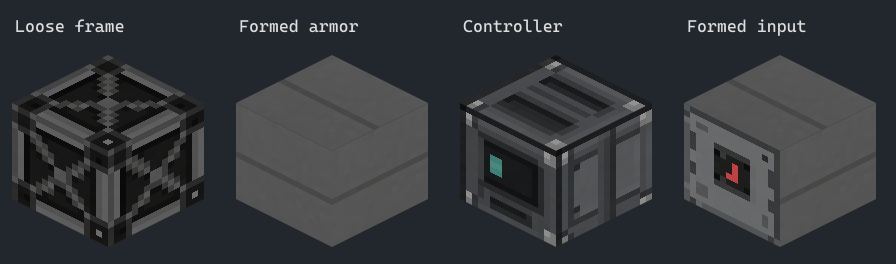
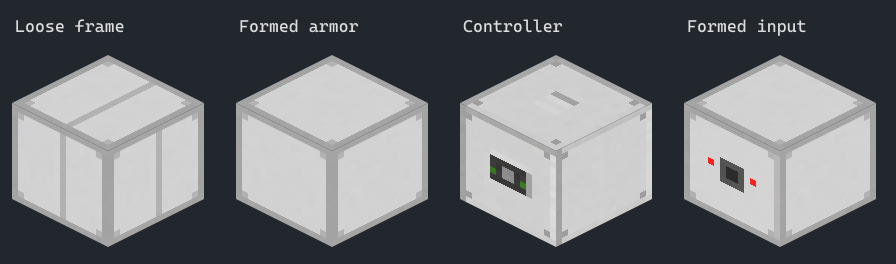
[MekFactory] fix: refresh assembled skins and adopt white induction styling

diff --git a/MekFactory/src/main/java/dev/everyonemek/factory/client/FactorySkins.java b/MekFactory/src/main/java/dev/everyonemek/factory/client/FactorySkins.java
@@ -5,6 +5,7 @@ import java.util.Map;
 import java.util.concurrent.ConcurrentHashMap;
 import net.minecraft.client.Minecraft;
 import net.minecraft.core.BlockPos;
+import net.minecraft.world.level.block.Block;
 import net.neoforged.neoforge.event.level.LevelEvent;
 
 /** Render-worker reads use immutable snapshots; updates and rebuild requests run on the client thread. */
@@ -34,7 +35,10 @@ public final class FactorySkins {
             var be = level.getBlockEntity(pos);
             if (be != null) level.getModelDataManager().requestRefresh(be);
             var state = level.getBlockState(pos);
-            level.setBlocksDirty(pos, state, state);
+            // setBlocksDirty compares BlockStates and skips an appearance-only change.
+            // On ClientLevel this calls LevelRenderer.blockChanged and schedules an urgent
+            // local section rebuild even when the state object itself stays identical.
+            level.sendBlockUpdated(pos, state, state, Block.UPDATE_CLIENTS | Block.UPDATE_IMMEDIATE);
         }
     }
 

diff --git a/MekFactory/AGENTS.md b/MekFactory/AGENTS.md
@@ -4,7 +4,7 @@
 
 ## 基线与用户偏好
 
-- 0.1.0-alpha.4，`mekfactory`，包 `dev.everyonemek.factory`，JAR `MekFactory-0.1.0-alpha.4.jar`。
+- 0.1.0-alpha.5，`mekfactory`，包 `dev.everyonemek.factory`，JAR `MekFactory-0.1.0-alpha.5.jar`。
 - MC 1.21.1、NeoForge 21.1.241、Mekanism 1.21.1-10.7.19.85、Java 21、Gradle 9.2.1、ModDev 2.0.146。JEI 19.22.1.316 为可选编译接口，不安装也能启动。
 - 用户要求分级框架控制尺寸/并行、分级通用端口和数量控制物料缓存、原感应元件/供应器控制储能吞吐、GUI 原机/共享升级、整壳开 GUI、一键搭建与统一外观。
 - 默认一台原机确定加工类型、框架提供并行。`machinesLimitParallel=true` 额外按原机数量限并行；参考 GTNH 不等于强行改掉框架方案。
@@ -13,6 +13,7 @@
 - 用户随后要求简化到 3×3：alpha.2 新建结构固定默认 3×3×3，界面移除尺寸修改；旧尺寸从存档原样读取，不能自动缩容或清空资源。
 - alpha.3 用户要求左侧端口配置与真实端口联动，外壳各位置可替换，修复配置器和容器标题，统一深色工业材质；“只放普通机器”要求已被用户撤回，原工厂变体仍支持。
 - alpha.4 用户明确要求原创材质与成型后换肤，不再沿用借用原 Mek 机壳的外观。原稿、提示词、导出流程在 art/。
+- alpha.5 用户否定深色重型机壳，改为参考原 Mek 感应外壳的浅白材质、细灰接缝、小型功能接口。此为本模组外观例外，不能又套回通用深灰框架。
 
 ## 实现入口
 
@@ -45,7 +46,8 @@
 - `tools/generate_resources.py` 维护 JSON，材质使用原创 assets/mekfactory/textures/block。主控掉落复制 factory_data、mekanism:items、upgrades、owner/security/redstone；不能拼成 mekanism:item，也不能复制聚合能量。
 - Mek getDisplayName 使用 container.<modid>.<blockid>，生成器须给四级主控同时生成 block/container 键。图稿和导出映射见 art/README.md；不要直接改生成 JSON 或用代码重绘位图。
 - `FactoryAppearance` 的 Snapshot 只同步维度、主控、边界和成型状态，不保存入 NBT。Controller 每次服务端 tick 在校验后发布变化，setRemoved 清除；ChunkWatchEvent.Sent 补发，不能用 Watch 在区块数据之前发包。发现相关工厂按已知 Controller 集合筛选，不能每次发送区块都遍历整维度全部方块归属。
-- `FactorySkins` 客户端以已加载位置缓存成型范围，接包后 requestRefresh(BlockEntity) 与 setBlocksDirty；区块卸载移除对应位置，世界卸载清空。相同 Snapshot 重进新加载区块仍需填充位置，不能简单去重后 return。
+- `FactorySkins` 客户端以已加载位置缓存成型范围，接包后 requestRefresh(BlockEntity)，然后 ClientLevel.sendBlockUpdated(pos,state,state,UPDATE_CLIENTS|UPDATE_IMMEDIATE)；区块卸载移除对应位置，世界卸载清空。相同 Snapshot 重进新加载区块仍需填充位置，不能简单去重后 return。
+- 已确认 1.21.1 的 ClientLevel.setBlocksDirty 调用 LevelRenderer.setBlockDirty(pos,old,new)，后者通过 ModelManager.requiresRender 比较 BlockState；old==new 时跳过重绘，导致必须手动敲旁边方块。sendBlockUpdated 则直达 LevelRenderer.blockChanged→setBlockDirty(pos,boolean)，不经过状态相等过滤。不能再用 state/state 的 setBlocksDirty 刷新仅模型数据的变化，也不需要伪造方块状态或整世界 allChanged。
 - `FactoryModels` 通过 ModelEvent.RegisterAdditional/ModifyBakingResult 包装本模组状态和原 Cell/Provider 的世界模型；在工作线程只读取事件模型表，不访问尚未就绪的 ModelManager。FactorySkinModel.getModelData 选择成型模型，物品渲染仍委托原模型，普通感应矩阵不换肤。
 - 服务端注册只引用 FactoryAppearance 的空 clientReceiver，客户端 setup 赋实际接收器；渲染类只在 Dist.CLIENT 事件加载。不得通过替换原感应方块为自定义外壳来实现换肤。
 - StructureChangeMixin 忽略仅 Controller active 指示灯变化；朝向、OUTPUT 与真实方块变化仍使结构失效，避免工作灯每次切换都打断成型外观。
@@ -59,4 +61,5 @@
 - GameTestServer 无 GameProfileCache；测试为唯一临时 UUID 填充 NeoForge UsernameCache 并在 finally 清理，通过测试专用反射访问 protected 方法。不要把该夹具修复放到生产代码。
 - 未运行客户端。512 工位结构校验不是大型整合包压力测试。JEI/HUD/模型视觉由用户验收。
 - 共 13 项服务端测试；外观测试验证状态/数据同步、灯光切换不失效、网络编解码、拆修恢复和原储能身份，但不代替客户端模型渲染验收。资源检查须包含 PNG 16×16、成型模型引用、玻璃框架几何不重叠与 JAR 排除源图。
+- alpha.5 是客户端与材质修复，执行 build、资源检查、当前 Minecraft 与编译产物的重绘调用核对；不以再跑服务端 GameTest 冒充修复客户端重绘的验证。
 - 使用自身 Wrapper/.gradle-home，可临时使用已有 GRADLE_RO_DEP_CACHE；缓存、参考源码和游戏世界不提交。CI/发布入口已注册 MekFactory。

diff --git a/MekFactory/art/README.md b/MekFactory/art/README.md
@@ -1,6 +1,8 @@
-# 原创工厂材质 · alpha.4
+# 原创白色工厂材质 · alpha.5
 
-使用内置 ImageGen 创作三张工业风格图集，色板以深灰钢铁为主。参考仓库既有机器的粗像素工业风格；没有复制 Mek 原材质像素。完整提示词见 `prompts.json`，主控工作态调整提示见 `controller-adjustment.txt`。
+用户选择参考 Mek 感应外壳的白色机壳。使用内置 ImageGen 重绘三张图集，浅白主体、细灰边、小型接口；不再使用厚重深灰边框。完整提示词见 `prompts.json`，小指示灯修订见 `refinements.json`。`controller-adjustment.txt` 是 alpha.4 的历史提示，不再用于当前图稿。
+
+`reference/mekanism-textures.png` 从左到右为 Mekanism 1.21.1-10.7.19.85 的 induction_casing、induction_port、induction_port_output、basic_induction_cell。仅作为色板和比例参考，不进入运行时 JAR；原素材适用 Mek MIT 许可证，见 `../src/main/resources/META-INF/licenses/Mekanism.txt`。
 
 | 原稿 | 左上 | 右上 | 左下 | 右下 |
 | --- | --- | --- | --- | --- |
@@ -8,7 +10,7 @@
 | source/structure.png | 散件框架 | 成型装甲 | 成型储能面 | 成型供应器面 |
 | source/ports.png | 散件输入 | 散件输出 | 成型输入 | 成型输出 |
 
-`../tools/export_textures.cjs` 用 Sharp 机械分面并以 nearest 导出真正的 16×16 PNG，不重绘、不模糊、不换色。主控原稿的实际面分界为 y=588，底部有留白；脚本按已检查的面界线裁剪，再缩放，使待机/工作指示灯位置一致。其余图集等分四格。
+`atlas-layout.json` 记录已检查的源图尺寸和分面边界；当前三张均为 1254×1254，等分四个 627×627 面。`../tools/export_textures.cjs` 用 Sharp 机械裁剪，通过 nearest affine 对齐像素中心导出真正的 16×16 PNG，不重绘、不模糊、不换色。该路径保留了直接大比例 resize 时丢失的小指示色。
 
 安装 `art/package.json` 依赖后，在模组目录运行 `node tools/export_textures.cjs`、`node tools/preview_textures.cjs` 和 `python tools/generate_resources.py`。本次本地使用已有 Sharp 0.35.4 缓存，通过临时 NODE_PATH 解析；脚本不写死用户目录。
 
@@ -17,6 +19,6 @@
 - 运行时：`../src/main/resources/assets/mekfactory/textures/block/`。
 - 玻璃使用这些原创材质制作不相交的细框模型，中央清透；没有伪透明棋盘格或共面重复面。
 
-散件露出机械框架；成型后切换装甲板和嵌入接口。原感应元件/供应器在所属工厂里显示原创接口，离开工厂恢复原模型。普通感应矩阵与物品栏里的 Mek 原部件不改变。
+散件有浅灰装配缝；成型后换成完整白色面板，输入红色、输出蓝色，储能绿色、供能琥珀色。原感应元件/供应器在所属工厂里显示原创接口，离开工厂恢复原模型。普通感应矩阵与物品栏里的 Mek 原部件不改变。
 
-原稿、提示词和预览仅存仓库，不进入游戏 JAR。材质全部检查 16×16 与引用，成型数据切换经过服务端测试；实际客户端视觉由玩家验收。
+原稿、提示词、参考图和预览仅存仓库，不进入游戏 JAR。材质检查 16×16、功能颜色与引用；刷新调用按当前 Minecraft 源码和字节码核对，实际客户端视觉由玩家验收。

diff --git a/MekFactory/README.md b/MekFactory/README.md
@@ -1,6 +1,6 @@
 # Mek Factory · 并行矩阵工厂
 
-**0.1.0-alpha.4** · Minecraft 1.21.1 · NeoForge 21.1.241 · Java 21
+**0.1.0-alpha.5** · Minecraft 1.21.1 · NeoForge 21.1.241 · Java 21
 
 将原机放入多方块主控，由框架提供并行工位。通用端口承担物料进出和缓存，原版感应元件储电，感应供应器限制吞吐。框架、外壳、玻璃和端口均可打开同一个界面。
 
@@ -8,7 +8,7 @@
 
 客户端和服务端安装本模组及 **Mekanism 1.21.1-10.7.19.85**。不依赖其他 EveryoneMek 扩展、MI 或 GTNH。JEI 可选，复用原 Mek 配方分类的机器入口；首版没有 JEI 自动填料。
 
-产物：`build/libs/MekFactory-0.1.0-alpha.4.jar`。多人游戏时客户端与服务端都更新到此版本。
+产物：`build/libs/MekFactory-0.1.0-alpha.5.jar`。多人游戏时客户端与服务端都更新到此版本。
 
 ## 使用
 
@@ -20,7 +20,9 @@
 
 ## 成型外观
 
-部件采用原创 16×16 工业贴图。未成型时露出框架、螺栓和加强筋；结构完整后，框架和外壳换成统一的装甲板，端口保留红色输入、蓝色输出标记。
+部件采用参考 Mek 感应外壳的原创 16×16 白色机壳：浅白主体、细灰边和小型接口。未成型时可见装配缝，结构完整后换成完整白色面板；端口保留红色输入、蓝色输出标记。
+
+成型、拆坏或修复后会主动刷新外观，不需要再破坏旁边的方块。
 
 工厂中的原感应元件、供应器也会显示对应的电池、供能接口。拆坏或移除主控后恢复散件外观；普通感应矩阵及物品栏里的原 Mek 部件不变。外观切换不会替换实际方块或改动电量、物料。
 
@@ -89,6 +91,6 @@ alpha.1 已建的大结构继续按存档尺寸工作，不会更新后被强制
 
 使用本目录 Wrapper、Java 21 和独立 `.gradle-home` 执行 `build runGameTestServer`。
 
-构建与 13 项服务端测试通过，覆盖并行/准确耗能、在制重载、失效接口、缩容、多端口预算、双产物、施工取消/扣料、远角菜单、真实漏斗到箱子、PRC、分批输出，以及运行中卸下升级的费率重算。另覆盖紧凑结构真实线缆供电、配置器/侧栏联动、成型外观同步数据与原感应储能保持。未运行客户端，换肤实际渲染、GUI、预览和 JEI 的游戏内显示由玩家验收；512 工位上限并不代表已完成大型整合包压测。
+已有 13 项服务端回归覆盖加工、物流、存储与成型状态，alpha.4 全部通过。本次只修改客户端重绘和材质，执行构建、运行时资源检查及对应 Minecraft 重绘接口/字节码核对，没有重复跑服务端测试。未运行客户端，换肤实际渲染、GUI、预览和 JEI 的游戏内显示由玩家验收；512 工位上限并不代表已完成大型整合包压测。
 
 [设计与范围](DESIGN.md) · [开发入口](AGENTS.md) · [变更记录](CHANGELOG.md) · [参考与归属](THIRD_PARTY_NOTICES.md)

diff --git a/MekFactory/DESIGN.md b/MekFactory/DESIGN.md
@@ -1,6 +1,6 @@
 # 并行矩阵工厂设计草案
 
-日期：2026-09-18。状态：已完成 `0.1.0-alpha.4` 可运行原型，后续扩展仍按下文设计推进。
+日期：2026-09-19。状态：已完成 `0.1.0-alpha.5` 可运行原型，后续扩展仍按下文设计推进。
 
 ## 首版落实范围
 
@@ -11,6 +11,8 @@
 alpha.3 将外壳位置放开到棱角，端口与感应部件可替换任意外壳位置，至少保留一个框架。左侧增加整面端口设置，配置器、方块 OUTPUT 状态、缓存方向与实际 capability 同步。角端口的所有外侧面共用模式，成组配置导致其他相关面更新是预期行为。用户撤回“只放普通机器”的限制，已支持的原工厂变体继续可用。
 
 alpha.4 按用户要求制作原创贴图，并区分散件与成型装甲外观。外观依赖服务端确认的结构边界和成型状态，客户端通过模型数据切换；原感应元件/供应器保持实体与真实储能，只有工厂范围内的世界渲染被覆盖。边界同步、区块初次发送与客户端缓存清理共同处理重进区块；材质/模型资源重载重新注册包装模型。
+
+alpha.5 用户选择参考感应外壳的白色机壳，取消重型深灰框架风格。成型状态仅改变模型数据，不能使用会比较新旧 BlockState 的 setBlocksDirty；相同方块状态必须通过 ClientLevel.sendBlockUpdated 的直接区块重绘路径刷新。
 
 首版输入、输出各有 4 个流体罐和 4 个 Chemical 罐，每罐容量累加该方向端口贡献，每方向最多 8 个端口。尚未实现端口过滤、向外供电、原位等级安装器、随机副产物、逐 tick Chemical 消耗、第三方增产或额外资源机器；放射性 Chemical 暂不放行。以下涉及这些功能的条目是后续目标，不代表首版已经支持。
 

diff --git a/MekFactory/THIRD_PARTY_NOTICES.md b/MekFactory/THIRD_PARTY_NOTICES.md
@@ -2,7 +2,7 @@
 
 - Original Mek Factory code is distributed under the repository MIT license.
 - Original factory texture atlases were created with the built-in ImageGen tool, then mechanically cropped/resized to 16×16. Sources and prompts are preserved in `art/`; no Mekanism texture pixels are copied into the released factory textures.
-- Mekanism is an MIT-licensed runtime dependency, copyright (c) 2017–2025 Aidan C. Brady. Its extension APIs and existing texture/model resources are referenced at runtime. Its texture files and dependency JAR are not redistributed. The notice is included at `META-INF/licenses/Mekanism.txt`.
+- Mekanism is an MIT-licensed runtime dependency, copyright (c) 2017–2025 Aidan C. Brady. Its extension APIs and existing texture/model resources are referenced at runtime. Its original texture files and dependency JAR are not bundled in releases. The development-only `art/reference/mekanism-textures.png` sheet enlarges its original induction textures as visual references under the same MIT license. The notice is included at `META-INF/licenses/Mekanism.txt`.
 - JEI is optional. Its binaries and sources are not included.
 - Modern Industrialization's shared multiblock inventory/change tracking, and the historical GTNH Processing Array's recipe-map/machine selection, were consulted as design references. No MI or GTNH implementation code/assets are copied or bundled. Exact source links are recorded in DESIGN.md.
 - The Gradle Wrapper retains its Apache-2.0 notices.

diff --git a/MekFactory/CHANGELOG.md b/MekFactory/CHANGELOG.md
@@ -1,5 +1,12 @@
 # 变更记录
 
+## 0.1.0-alpha.5 · 2026-09-19
+
+- 按反馈改为参考 Mek 感应外壳的原创白色材质，使用细灰接缝、小型接口和少量指示色，替换深色重型框架与大片深灰装甲。
+- 修复成型外观必须依靠旁边方块更新才重绘：客户端改用不比较前后 BlockState 的局部重绘入口，并开启立即重绘标记。
+- 材质仍为真正的 16×16，保存新原稿、提示词、采样边界与 Mek 参考图；导出使用逐像素最近邻采样，保留小指示灯。
+- 构建、资源和重绘接口核对通过；未运行客户端，本次不重复执行不覆盖此客户端问题的服务端回归。
+
 ## 0.1.0-alpha.4 · 2026-09-18
 
 - 制作原创框架、主控、端口、成型装甲和供能接口贴图，运行时均导出为 16×16；维护原稿、完整提示词与机械导出工具。
